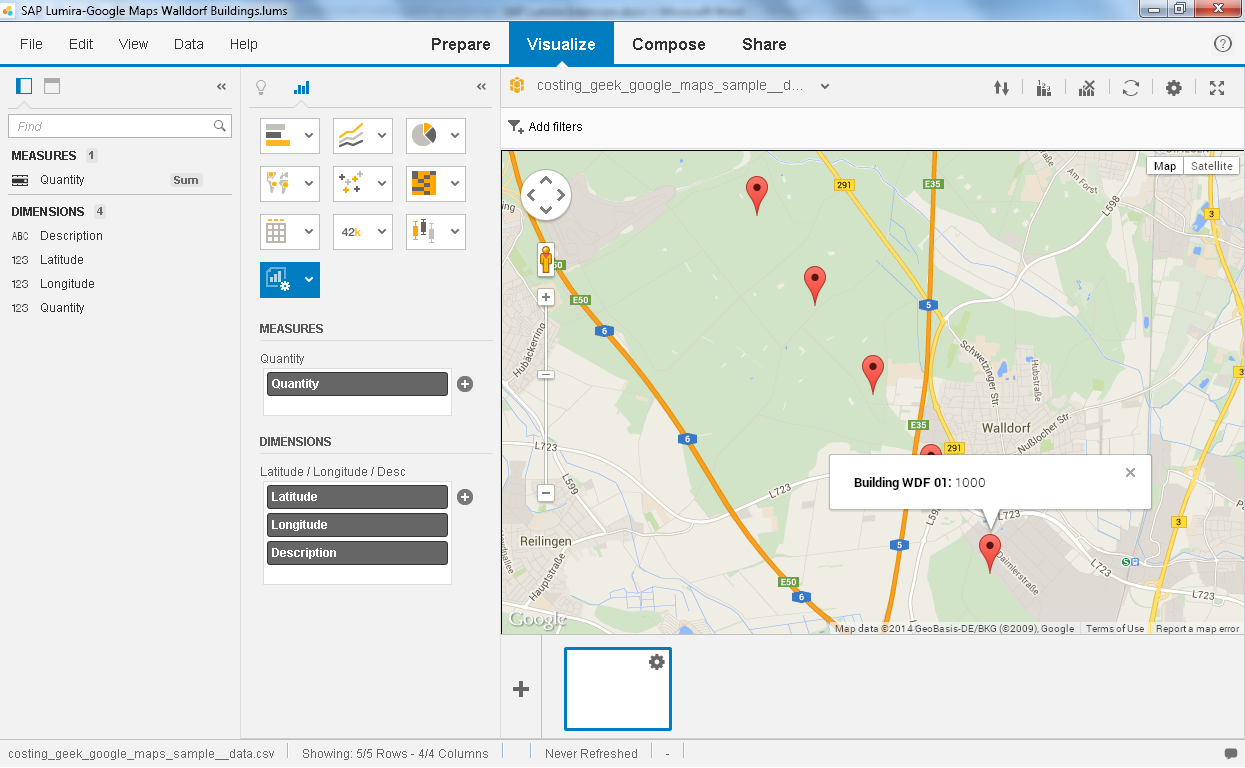
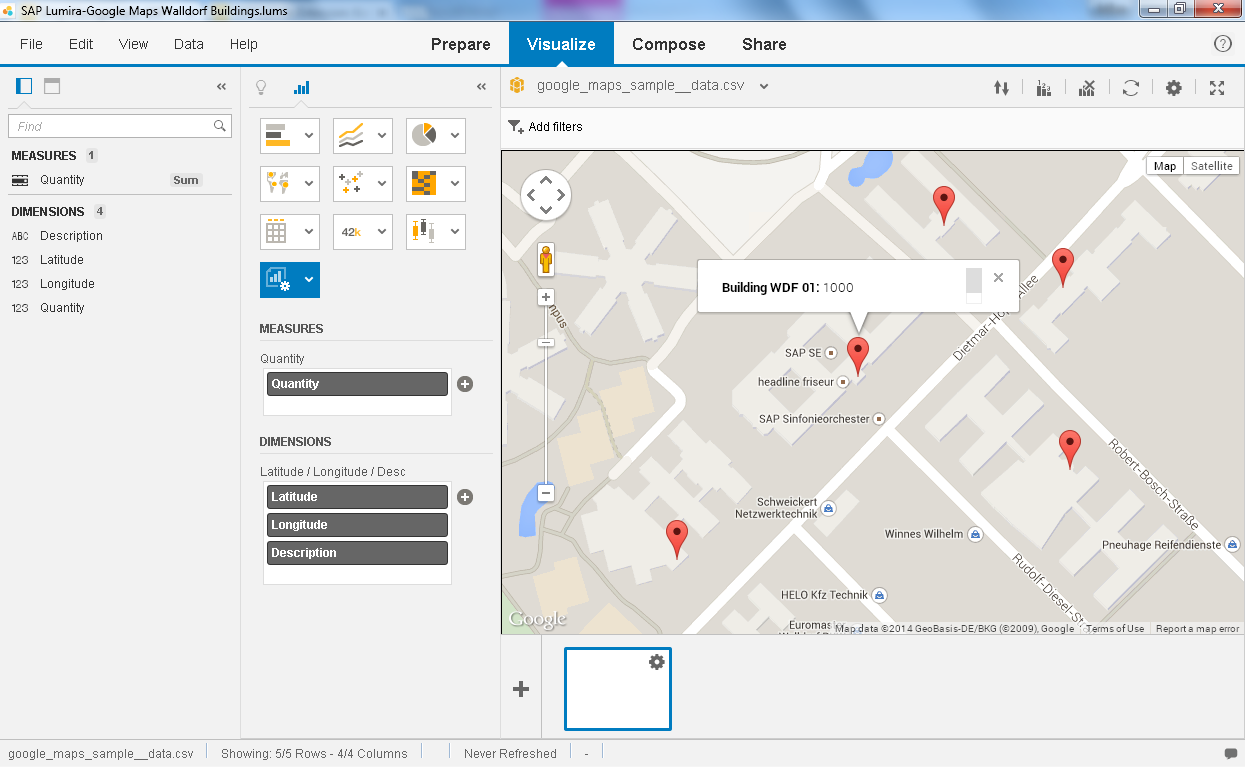
Correction for field names
Followed Matt Lloyd's corrections (marked MDL) to solve the case when
the fields are not named the same as in the demo. Also updated sample
data and sample result.

diff --git a/bundles/com/costinggeek/googlemaps/com_costinggeek_googlemaps-src/js/render.js b/bundles/com/costinggeek/googlemaps/com_costinggeek_googlemaps-src/js/render.js
@@ -42,6 +42,18 @@ define("com_costinggeek_googlemaps-src/js/render", ["com_costinggeek_googlemaps-
 	        load_gmap();
         });
 
+		// MDL: Get the name of the dimension columns from dimension group: Latitude / Longitude / Desc
+		var dimArr_latLongDesc = data.meta.dimensions('Latitude / Longitude / Desc');
+		var dim_lattitude   = dimArr_latLongDesc[0];
+		var dim_longitude   = dimArr_latLongDesc[1];
+		var dim_description = dimArr_latLongDesc[2];
+		// MDL: end
+
+		// MDL: Get the name of the measure column from the measure group: Quantity
+		var msrArr_Qty = data.meta.measures('Quantity');	
+		var msr_Quantity = msrArr_Qty[0];
+		// MDL: end
+
         // set global variable accessible by all sub-functions
         var my_map;
         var my_LatLng;
@@ -98,9 +110,13 @@ define("com_costinggeek_googlemaps-src/js/render", ["com_costinggeek_googlemaps-
 	        var j = 0;
 	        for ( var i = 0; i < data.length; i++ )
 	        {
-		        if( data[i].Latitude != undefined &&  data[i].Longitude != undefined )
+				// MDL: Updated to use column names from data set.
+				if( data[i][dim_lattitude] != undefined && data[i][dim_longitude] != undefined )
+				// MDL: end
 		        {
-			        add_marker_lat_long( data[i].Description, data[i].Latitude,  data[i].Longitude, data[i].Quantity );
+			        // MDL: Updated to use column names from data set.
+					add_marker_lat_long( data[i][dim_description], data[i][dim_lattitude],  data[i][dim_longitude], data[i][msr_Quantity] );
+					// MDL: end
 			        j++;
 		        }
 	        }
